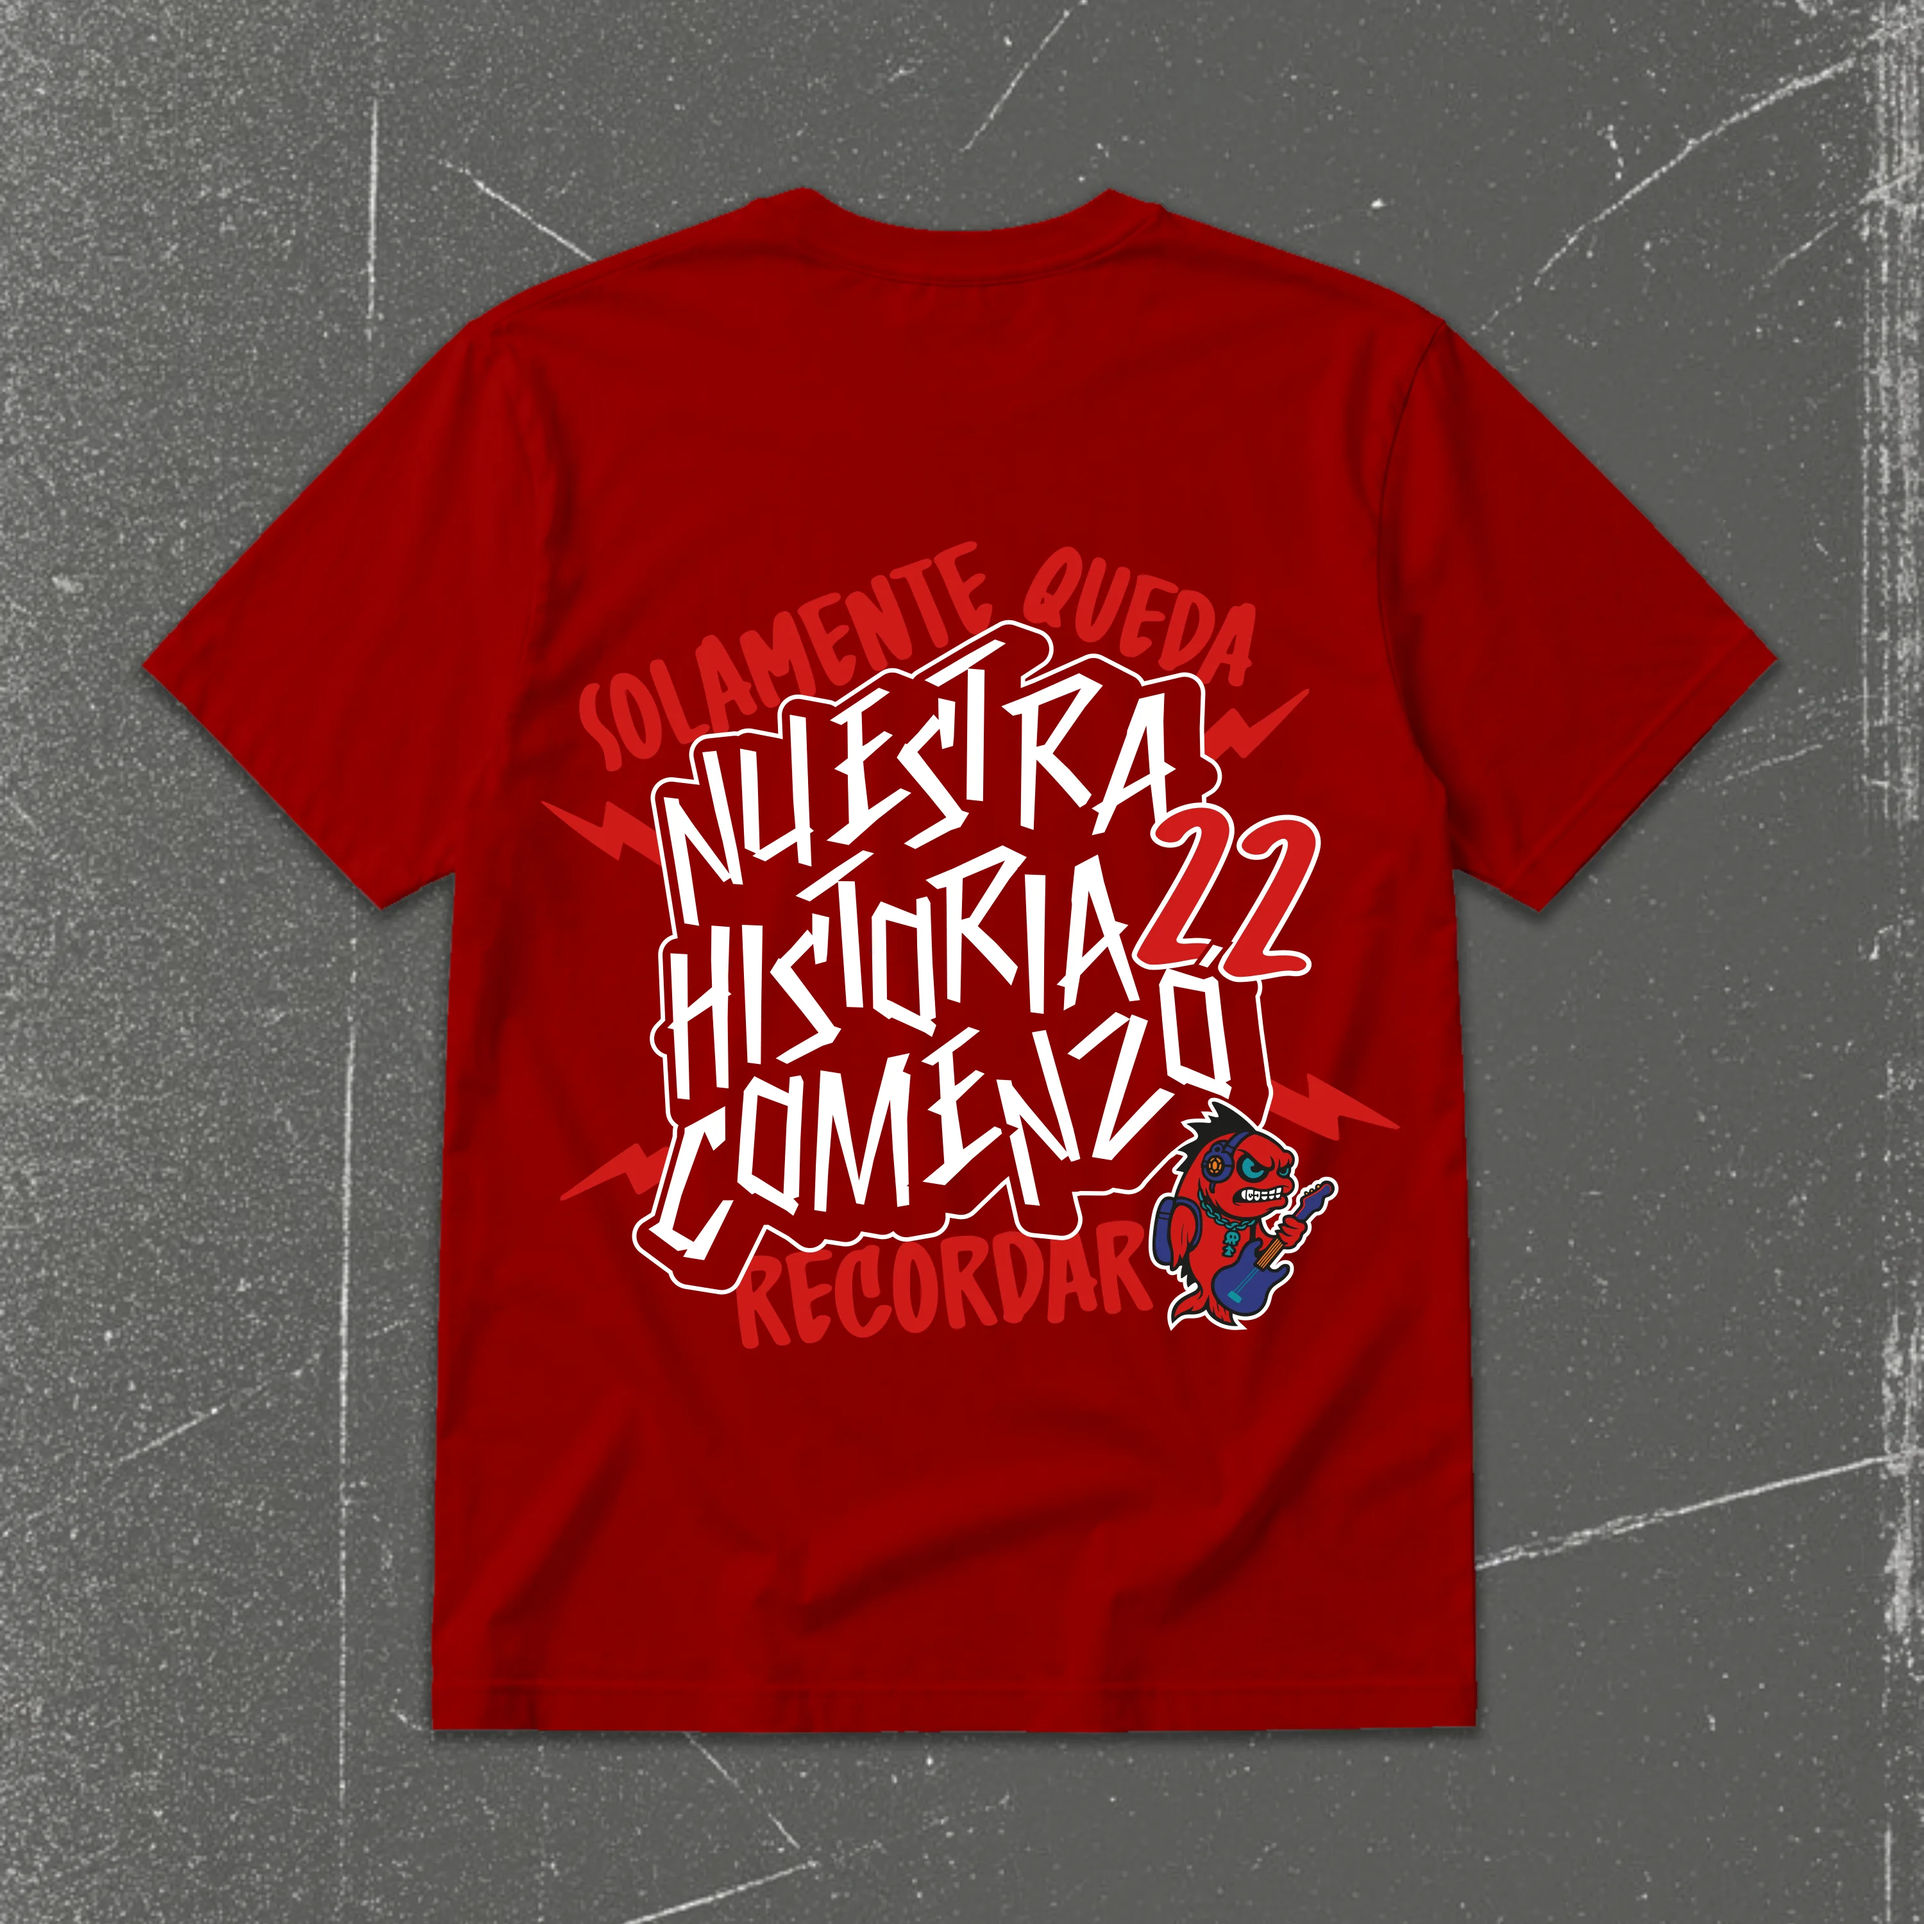
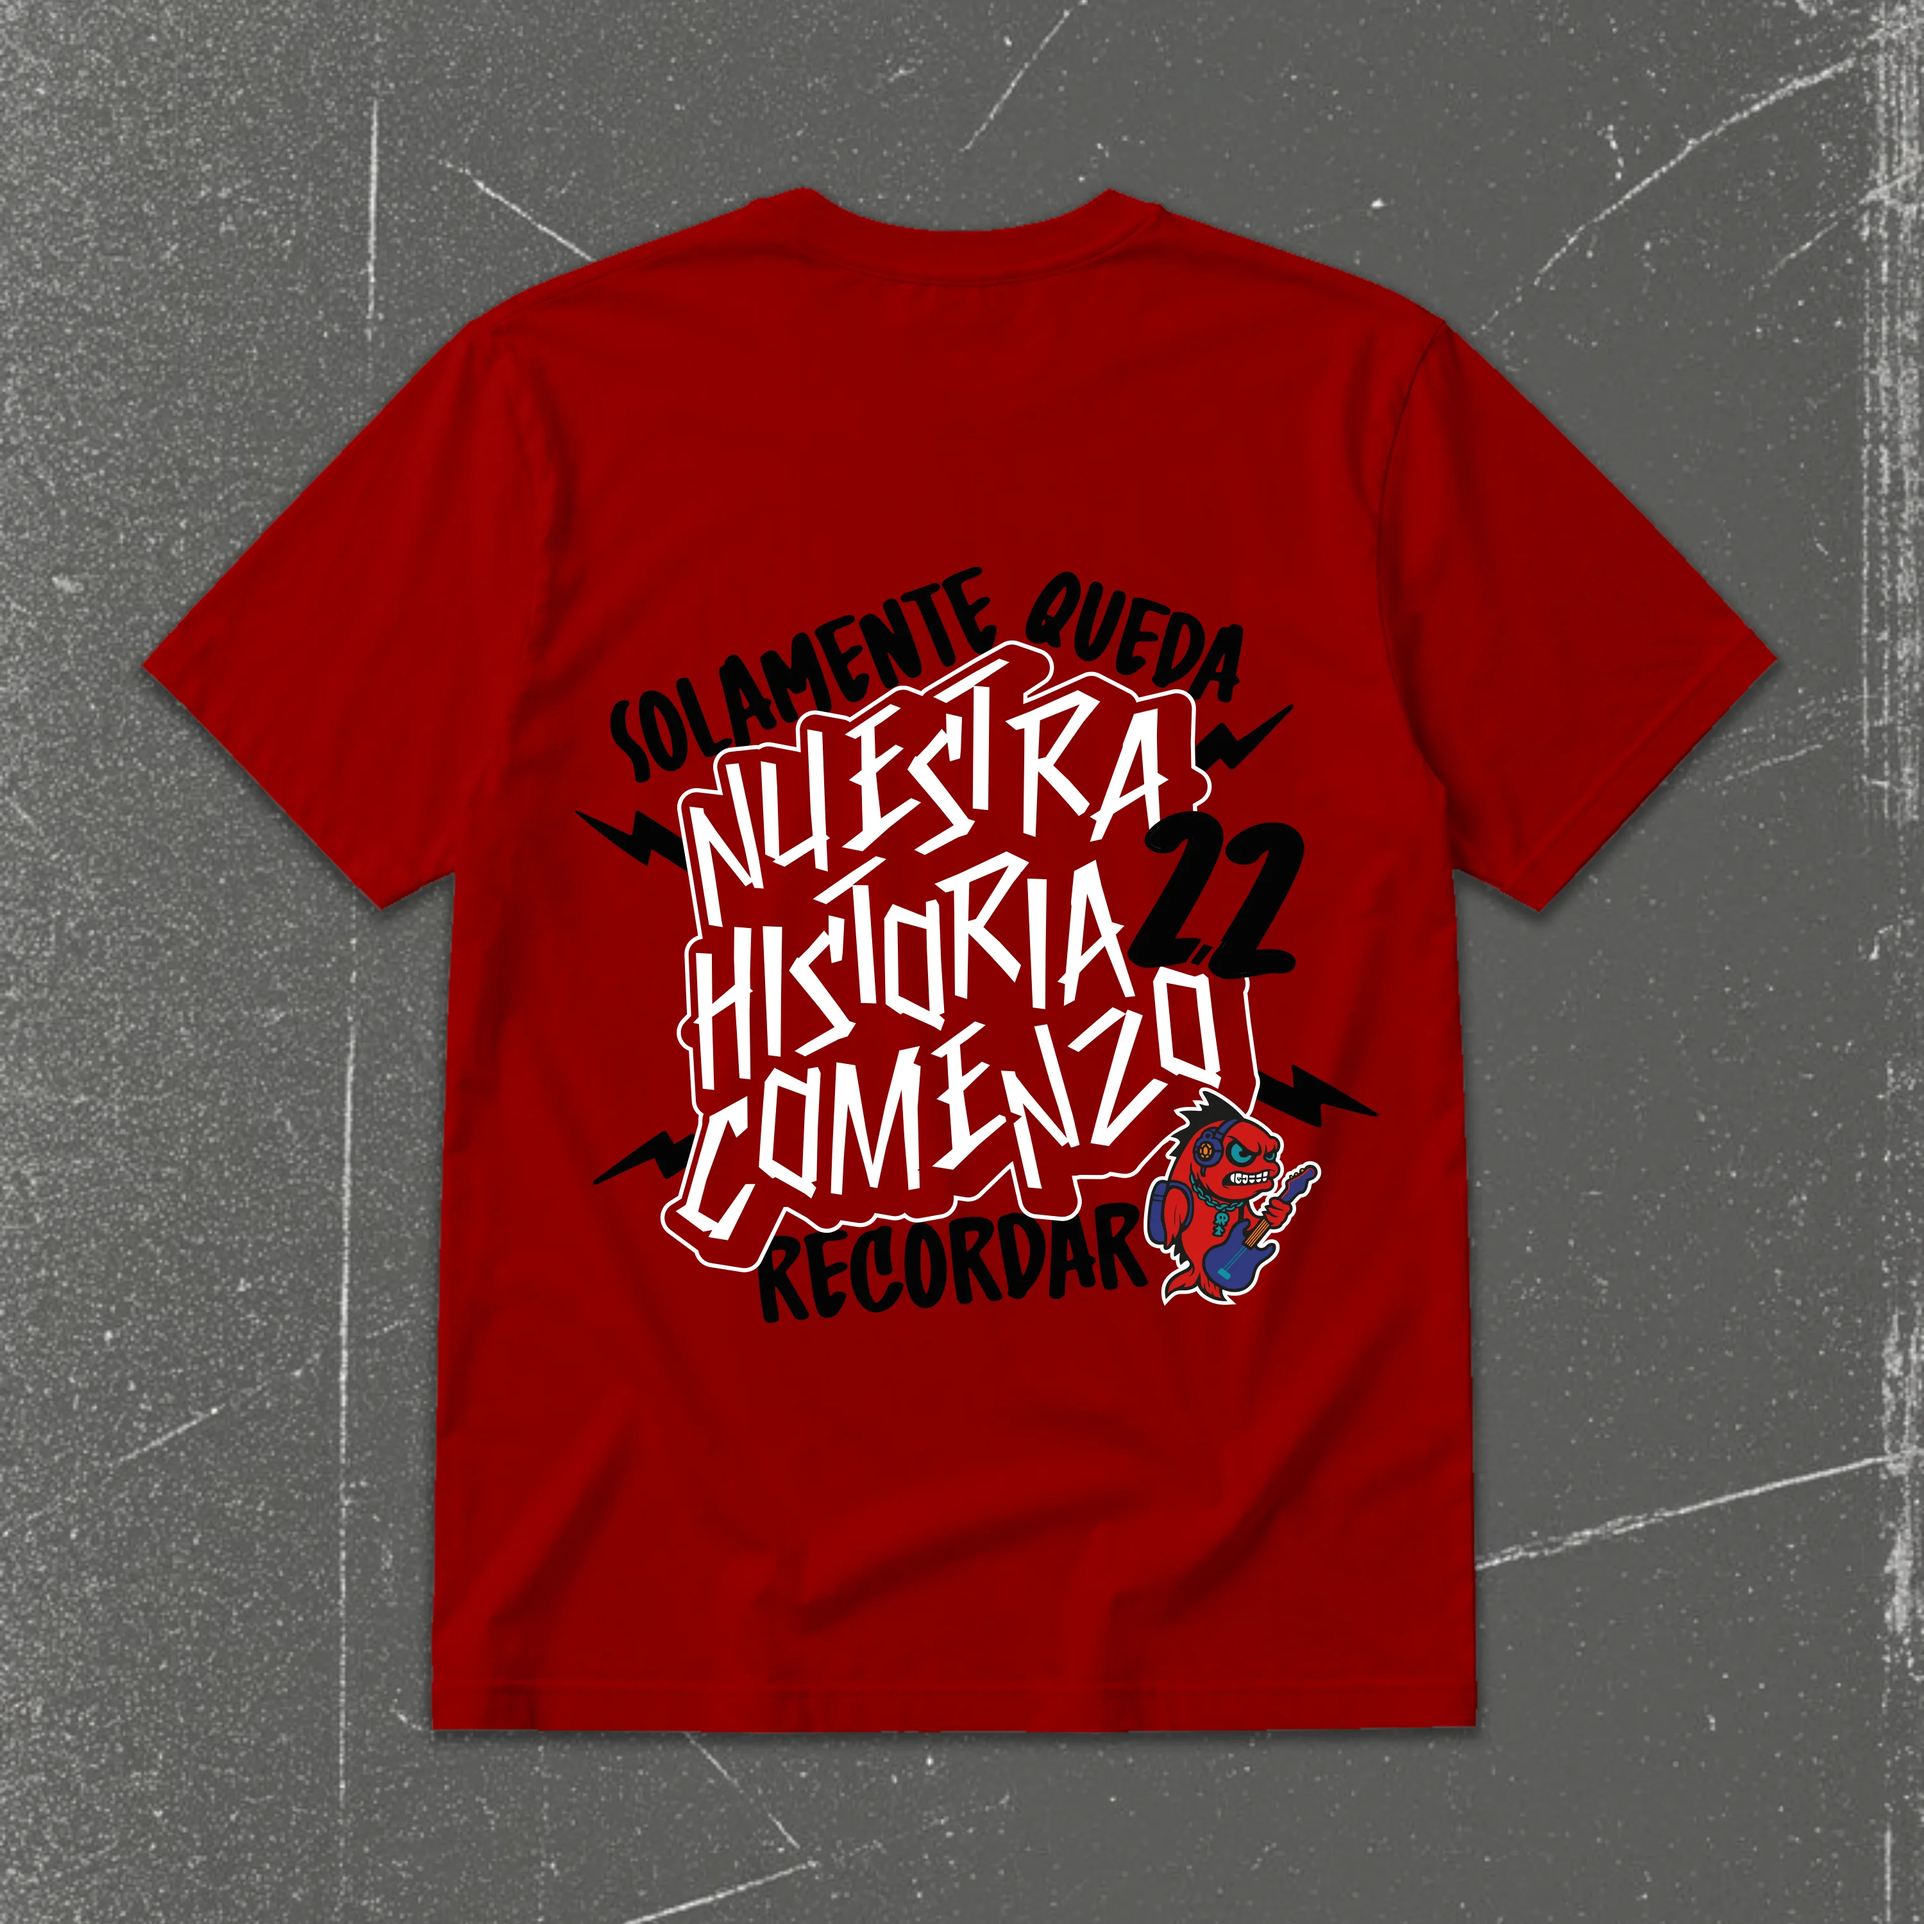
Actualizacion de merch add nuevo producto

Changed region(s): [[0.279, 0.279, 0.713, 0.713]]

diff --git a/src/db/Merch.js b/src/db/Merch.js
@@ -145,6 +145,24 @@ const Merch = [
     },
     {
         "id": 18,
+        "name": "Buso Rojo",
+        "descripcion": "Diseño Buso 22",
+        "price": 80000,
+        "image": `${import.meta.env.BASE_URL}images/Merch/Buso_negro_pato22.webp`,
+        "image2": `${import.meta.env.BASE_URL}images/Merch/lat_negro.webp`,
+        "sizes": ["S", "M", "L","XL"]
+    },
+    {
+        "id": 19,
+        "name": "Buso Rojo",
+        "descripcion": "Diseño Buso 22",
+        "price": 80000,
+        "image": `${import.meta.env.BASE_URL}images/Merch/Buso_rojo_pato22.webp`,
+        "image2": `${import.meta.env.BASE_URL}images/Merch/lat_rojo.webp`,
+        "sizes": ["S", "M", "L","XL"]
+    },
+    {
+        "id": 20,
         "name": "Gorro Beanie",
         "descripcion": "Gorro Logo Pato El Pez",
         "price": 35000,
@@ -153,7 +171,7 @@ const Merch = [
         "sizes": ["No Aplica"]
     },
     {
-        "id": 19,
+        "id": 21,
         "name": "Gorras",
         "descripcion": "Gorra Plana Logo Pato El Pez",
         "price": 45000,
@@ -162,7 +180,7 @@ const Merch = [
         "sizes": ["No Aplica"]
     },
     {
-        "id": 20,
+        "id": 22,
         "name": "Mug",
         "descripcion": "Taza con diseño de pato el pez",
         "price": 25000,
@@ -170,11 +188,8 @@ const Merch = [
         "image2": `${import.meta.env.BASE_URL}images/Merch/mug_zomm.webp`,
         "sizes": ["No Aplica"]
     },
-    
-    
-    
     {
-        "id": 21,
+        "id": 23,
         "name": "Termo",
         "descripcion": "Diseño Pato El Pez",
         "price": 30000,
@@ -182,16 +197,7 @@ const Merch = [
         "image2": `${import.meta.env.BASE_URL}images/Merch/termo2.webp`,
         "sizes": ["No Aplica"]
     },
-    
-    
-    
-    
-    
-    
-    
-    
-    
-    
+  
 ]
 
 export default Merch
